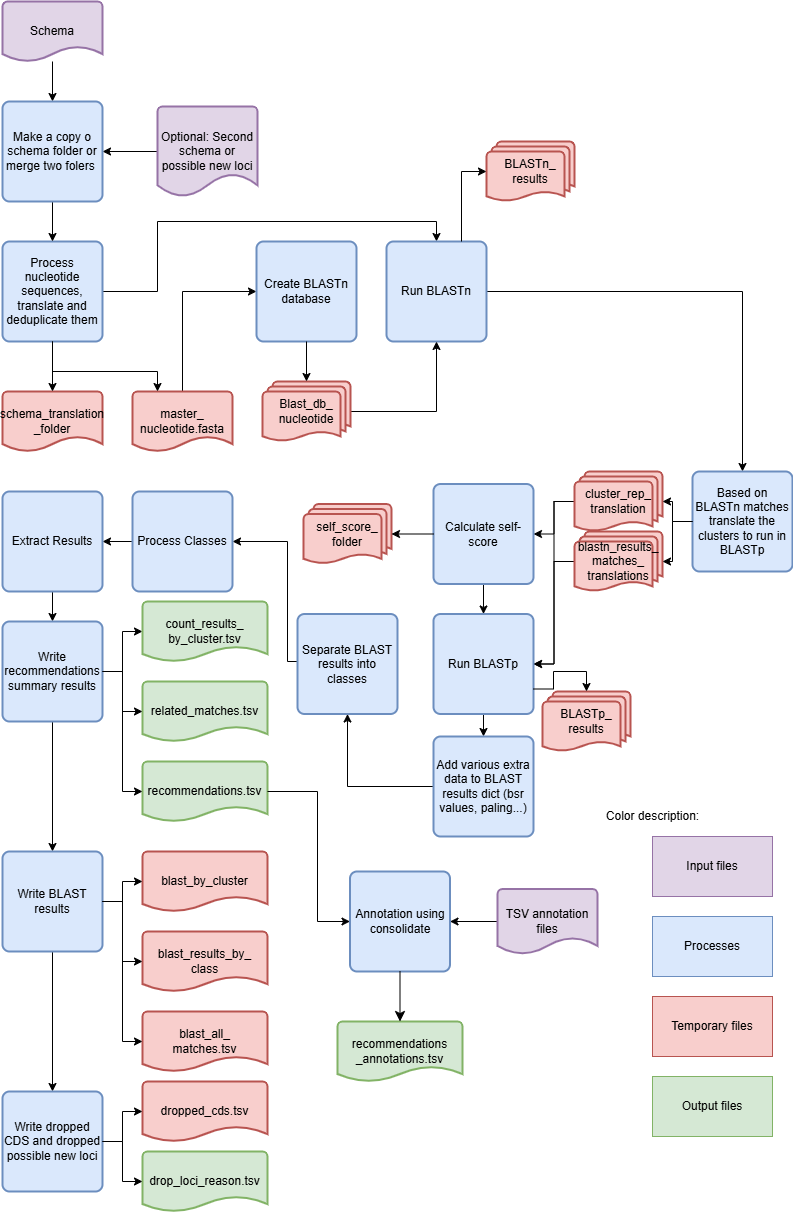
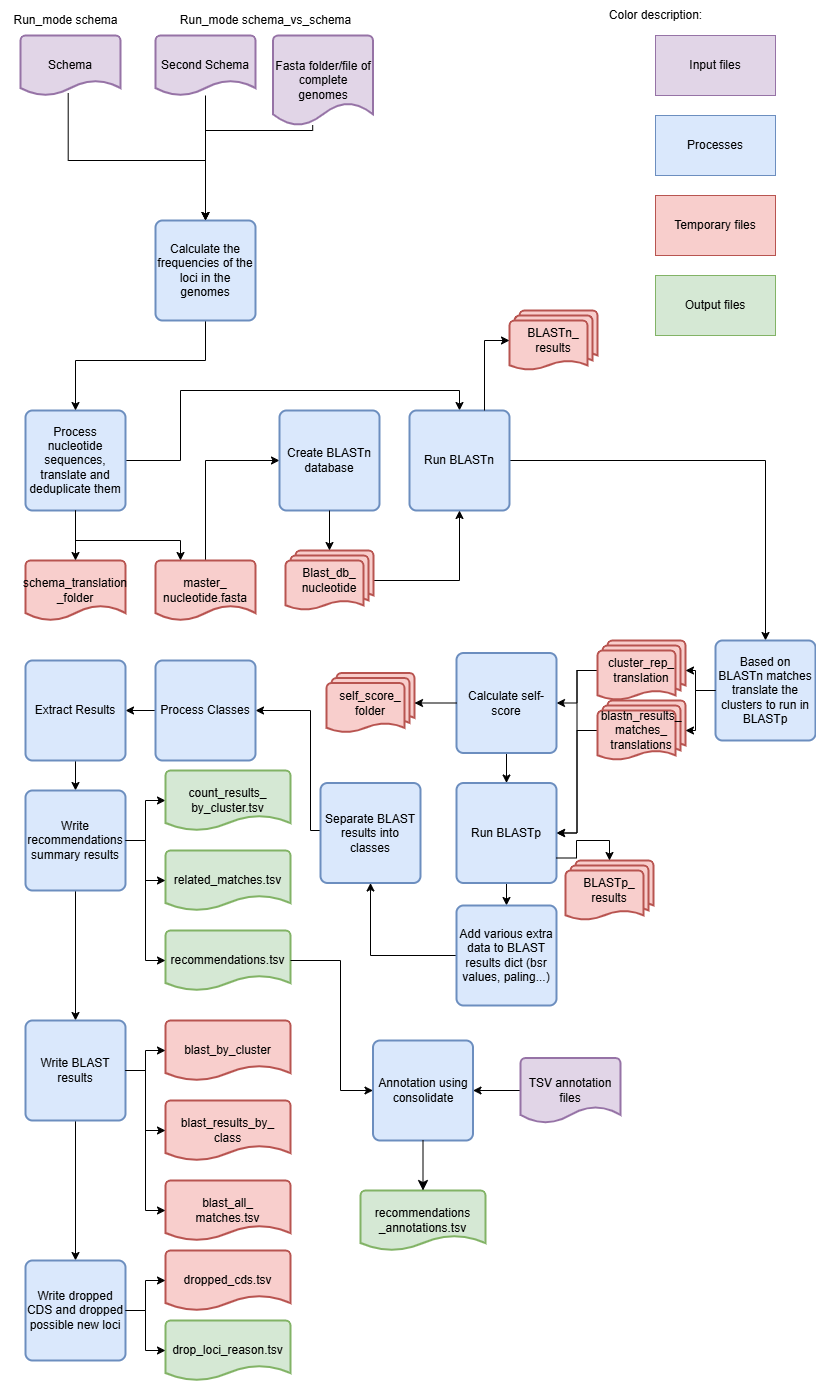
Fix (docs): Updated ISG documentation

diff --git a/SchemaRefinery/docs/SchemaRefinery/Modules/IdentifySpuriousGenes.rst b/SchemaRefinery/docs/SchemaRefinery/Modules/IdentifySpuriousGenes.rst
@@ -56,9 +56,6 @@ Command-Line Arguments
         (Optional) Path to the tsv file with the schema annotations.
         This file needs to have one column with loci with the same IDs as the ones in the schema.
 
-    -pnl, --possible-new-loci
-        (Optional) Path to the directory that contains possible new loci or schema to merge.
-
     -at, --alignment-ratio-threshold
         (Optional) Threshold value for alignment used to identify spurious CDS (float: 0-1).
         Default: 0.9
@@ -96,7 +93,7 @@ Command-Line Arguments
 
     -m, --run-mode
         (Optional) Run mode for identifying spurious loci.
-        Choices: unclassified_cds, schema
+        Choices: unclassified_cds, schema, schema_vs_schema
         Default: schema
 
     -pm, --processing-mode
@@ -119,6 +116,11 @@ Command-Line Arguments
         (Optional) Path to the logger file.
         Default: None
 
+.. Note::
+    In `processing_mode` the option `reps_vs_reps` is the fastest and covers most of the cases.
+    The option `all_vs_all` takes much more time and changes the recommendation of around more 1% of the total loci. 
+    Choose the processing mode according to your computer capabilities and research needs.
+
 Algorithm Explanation
 ---------------------
 
@@ -129,7 +131,7 @@ Algorithm to identify new loci based on the CDS that are not in the schema:
    :width: 80%
    :align: center
 
-Algorithm to indentify spurious loci based on the schema input:
+Algorithm to indentify spurious loci based on schema inputs for run modes schema and schema_vs_schema:
 
 .. image:: source/IdentifySpuriousGenes_schema.png
    :alt: Algorithm to identify spurious loci
@@ -154,8 +156,13 @@ Depending on the classification, each locus will have a specific action recommen
     Join: 1a
     Choice: 1c, 2b, 3b, 4b
     Drop: 1b, 2a, 3a, 4a
+    Add: 4c and 5
 
-Choice is a recommendation for the user to decide if the locus should just be added with no alteration, dropped or joined to the cluster it is in.
+Choice is a recommendation for the user to decide if the locus should just be added with no alteration ('Add'), dropped ('Drop') or joined to the cluster it is in ('Join'). 
+
+.. Note:: 
+    Before passing the recommendation file to the CSS module make sure there are no 'Choice' in the action column.
+
 The other loci will have the action 'Add' and will just be added, without alteration, to the new schema.
 
 The column from the annotation file that has the highest number of matches between loci IDs with the schema fasta IDs will be chosen as the one to merge.
@@ -449,7 +456,7 @@ Here are some example commands to use the `IdentifySpuriousGenes` module:
     SR IdentifySpuriousGenes -s /path/to/schema -o /path/to/output -a /path/to/allelecall
 
     # Identify spurious genes with custom parameters
-    SR IdentifySpuriousGenes -s /path/to/schema -o /path/to/output -a /path/to/allelecall -pnl /path/to/possible_new_loci -ann /path/to/annotation-files -at 0.9 -pt 90 -cs 0.9 -cc 0.9 -gp 10 -as 201 -tt 11 -b 0.6 -sr 0.8 -m schema -pm reps_vs_alleles -c 4 --nocleanup
+    SR IdentifySpuriousGenes -s /path/to/schema /path/to/second_schema -o /path/to/output -a /path/to/allelecall /path/to/allelecall_second_schema  -ann /path/to/annotation-files -at 0.9 -pt 90 -cs 0.9 -cc 0.9 -gp 10 -as 201 -tt 11 -b 0.6 -sr 0.8 -m schema_vs_schema -pm reps_vs_alleles -c 4 --nocleanup
 
 Troubleshooting
 ---------------

diff --git a/SchemaRefinery/docs/SchemaRefinery/Tutorials/IdentifySpuriousGenesUnclassifiedCDS.rst b/SchemaRefinery/docs/SchemaRefinery/Tutorials/IdentifySpuriousGenesUnclassifiedCDS.rst
@@ -36,16 +36,14 @@ Procedure
 ::
     
     Loci_id	Action
-    GCA-000007265-protein582	Join
-    GCA-000730215-protein582	Join
-    GCA-000831145-protein1681	Join
     GCA-001275545-protein1163	Join
-    GCA-000730255-protein607	Join
-    GCA-000427075-protein661	Join
-    GCA-000831105-protein622	Join
+    GCA-000831145-protein1681	Join
+    GCA-000007265-protein582	Join
     GCA-000012705-protein568	Join
+    GCA-000730215-protein582	Join
+    GCA-000831105-protein622	Join
+    GCA-000730255-protein607	Choice
     #
-
 
 Example Output Structure
 ------------------------

diff --git a/SchemaRefinery/docs/SchemaRefinery/Tutorials/IdentifySpuriousGeneSchema.rst b/SchemaRefinery/docs/SchemaRefinery/Tutorials/IdentifySpuriousGeneSchema.rst
@@ -36,14 +36,13 @@ Procedure
 ::
     
     Loci_id	Action
-    GCA-000730255-protein547	Join
-    GCA-000427055-protein583	Join
-    GCA-000730255-protein547	Choice
-    GCA-000730215-protein2131	Choice
-    #
-    GCA-001448985-protein1872	Join
     GCA-000007265-protein1932	Join
     GCA-000730215-protein1962	Join
+    GCA-001448985-protein1872	Choice
+    #
+    GCA-000427035-protein1421	Join
+    GCA-000427055-protein1391	Join
+    GCA-000782855-protein1355	Join
     #
 
 
